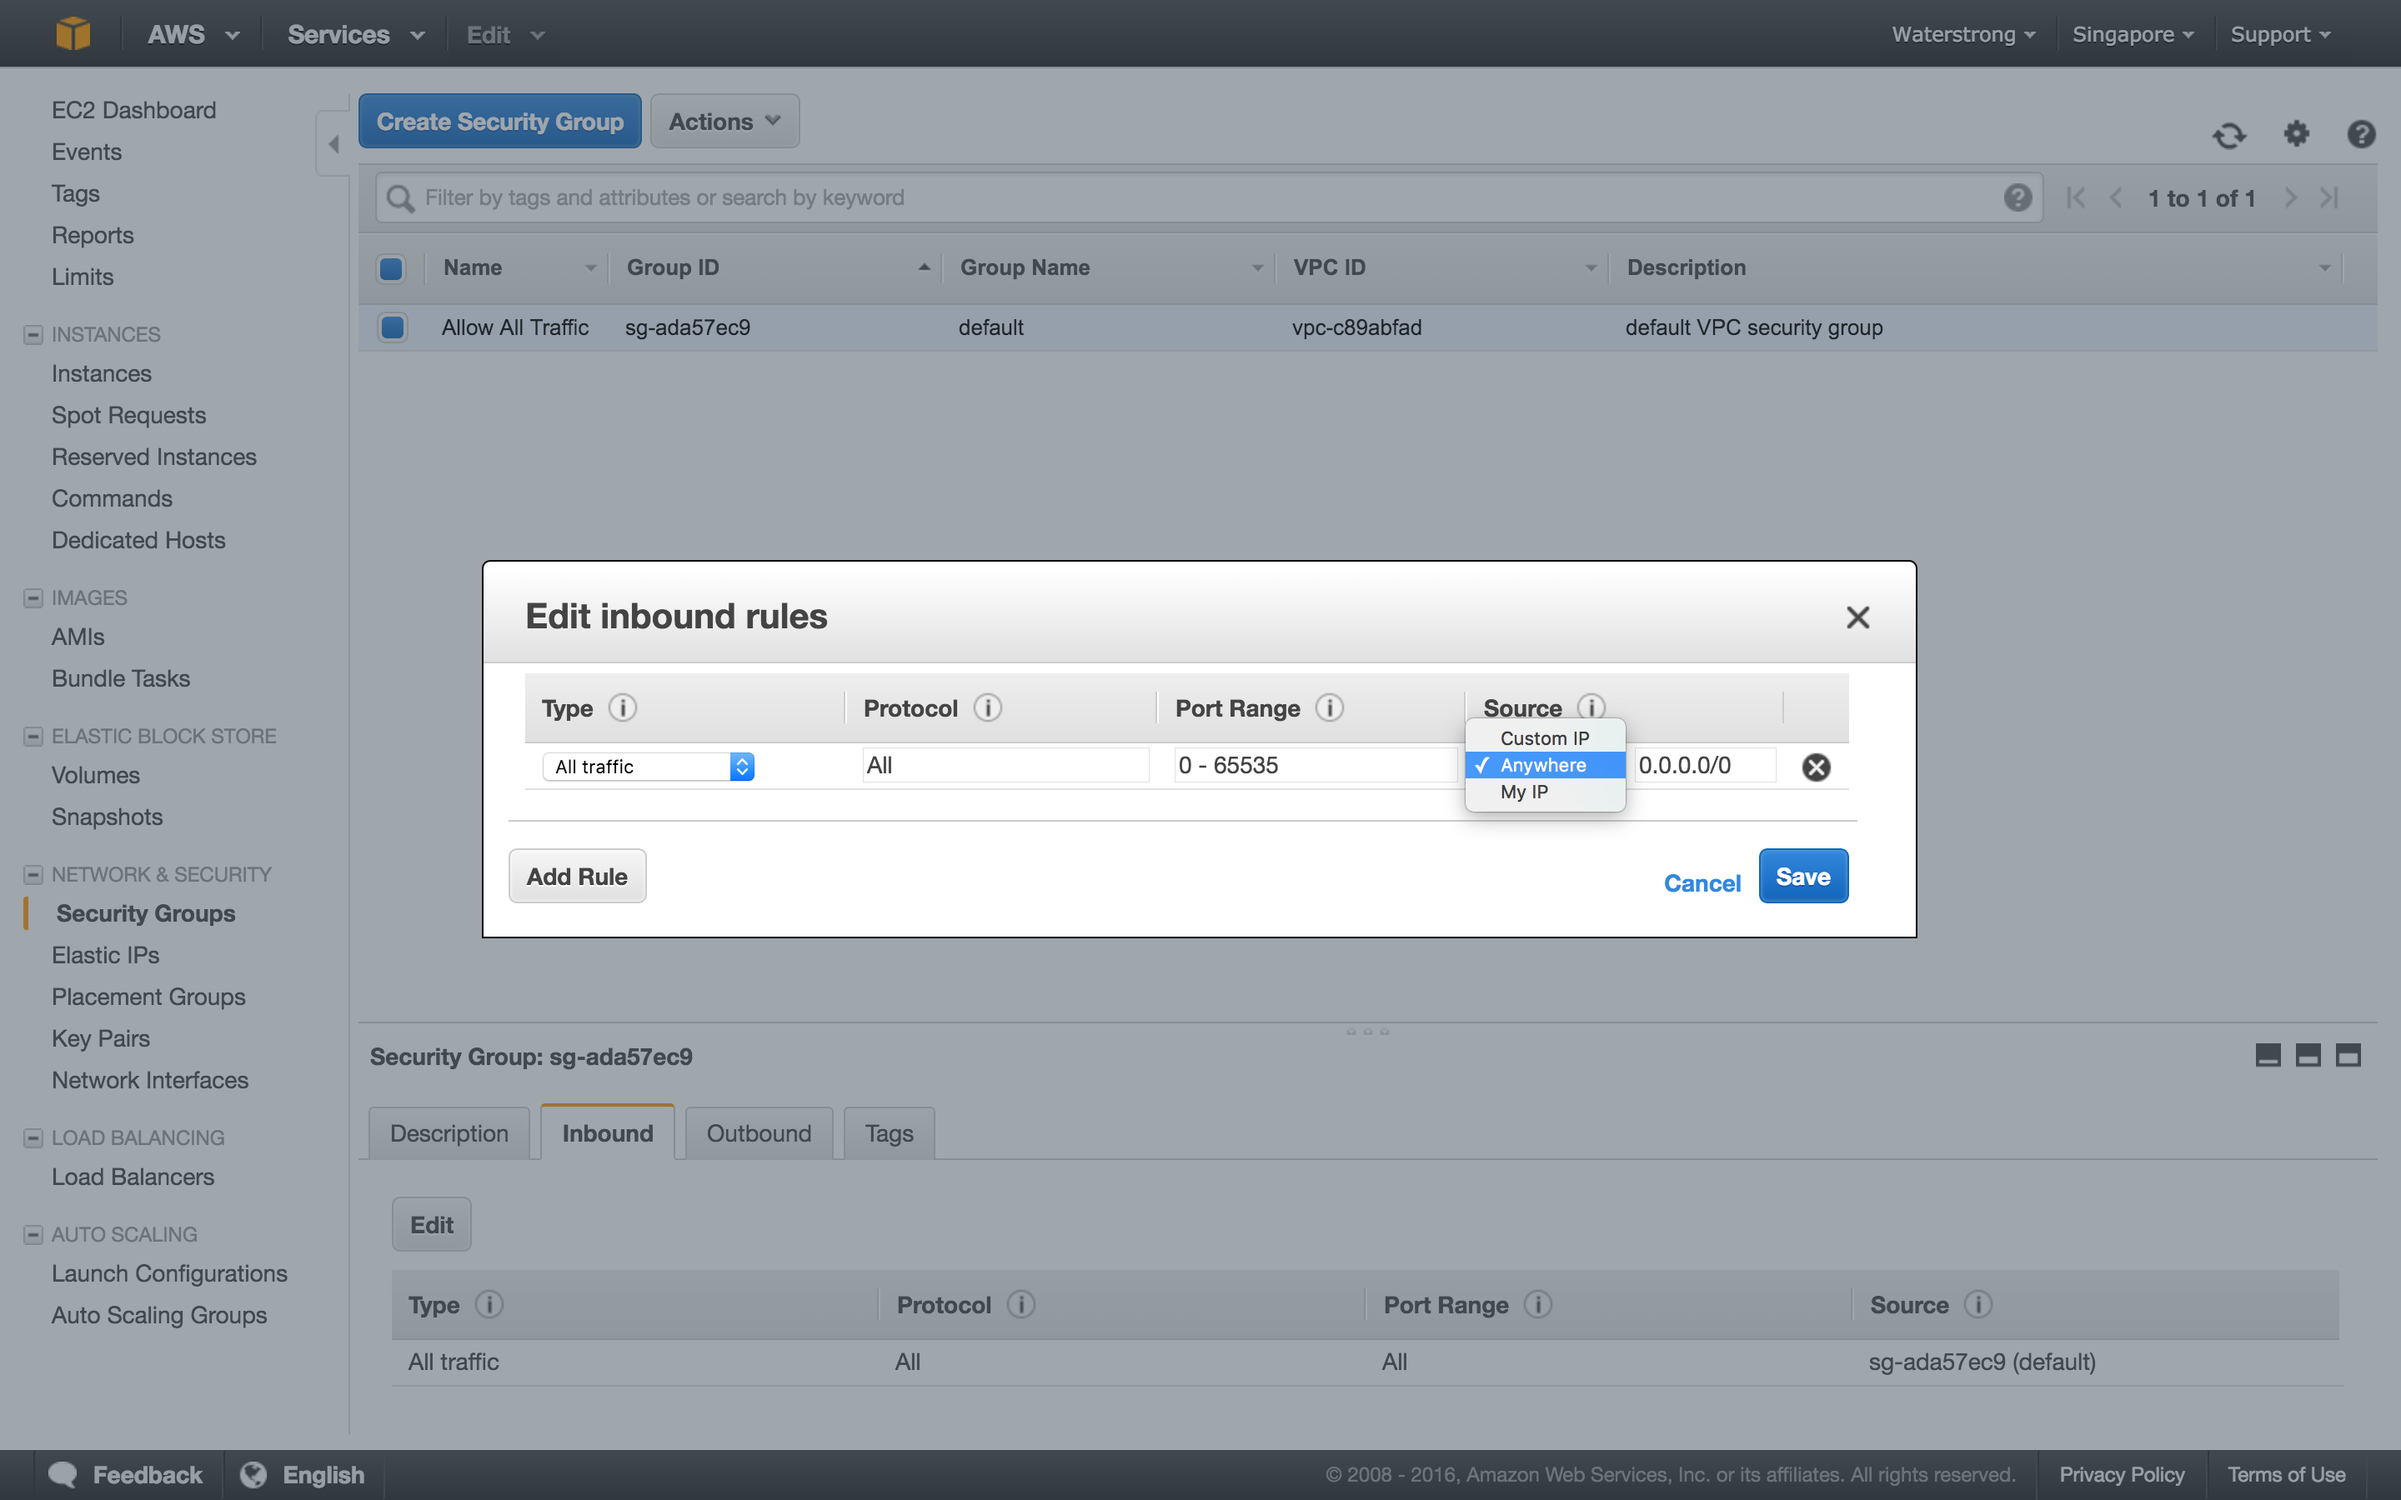
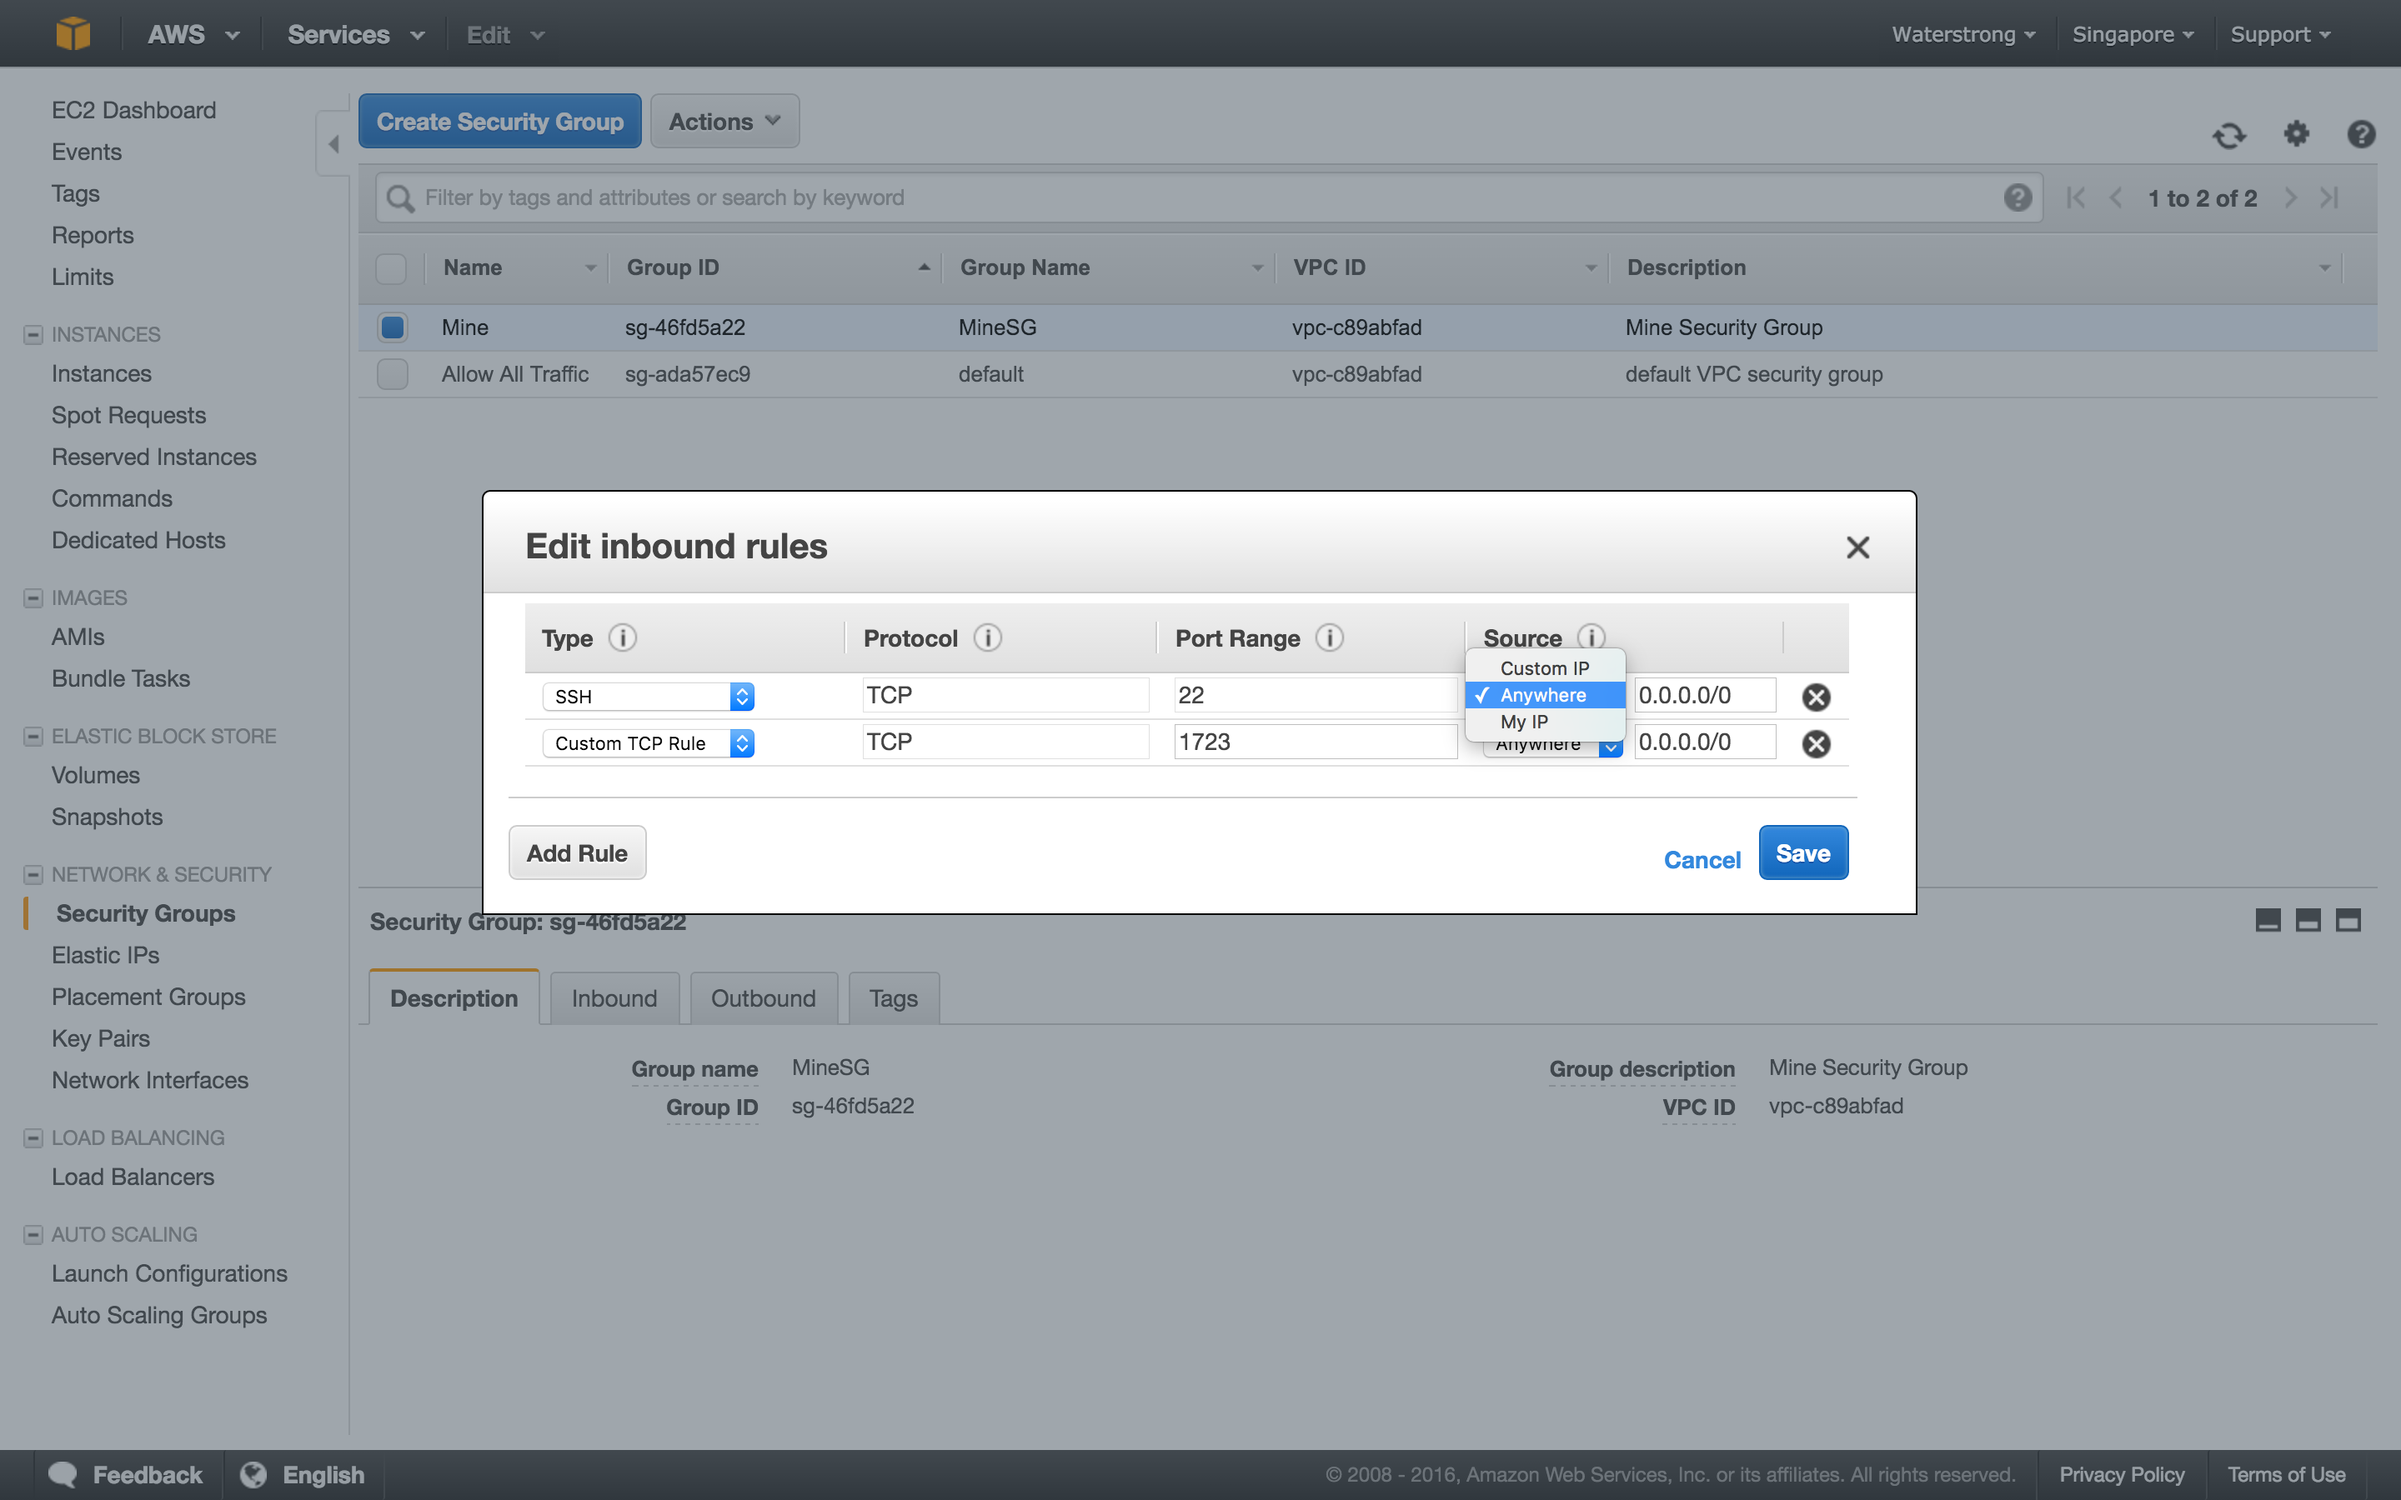
[#POST Waterstrong] - finish security group part of AWS EC2 post

diff --git a/source/_posts/2016-04-11-aws-ec2-basic.md b/source/_posts/2016-04-11-aws-ec2-basic.md
@@ -69,9 +69,17 @@ sudo umount /dev/xvdf
 
 ### Security Groups 安全组
 
-防火墙，让您可以指定协议、端口，以及能够使用安全组到达您的实例的源 IP 范围
+可以使用安全组来控制实例的访问权限，这些安全组类似于一个传入网络防火墙，可以指定允许访问实例的协议、端口和源IP范围。可以创建多个安全组，并给每个安全组指定不同的规则，然后可以给每个实例分配一个或多个安全组，通过这些规则规则确定允许哪些流量可访问实例。
 
-您可以使用安全组来控制您的实例的访问权限。这些安全组类似于一个传入网络防火墙，使您可以指定允许访问您的实例的协议、端口和源 IP 范围。您可以创建多个安全组，并给每个安全组指定不同的规则。然后您可以给每个实例分配一个或多个安全组，我们将按照这些规则确定允许哪些流量可访问实例。您可以配置一个安全组，以便只有特定的 IP 地址或特定的安全组可以访问实例。
+如下图所示选择`Network & Security -> Security Groups -> Create Security Group`创建一个新的安全组:
+![](../images/aws-ec2-basic/create_security_group.png)
+
+上图显示下拉列表中，可以根据需要选择如SSH,TCP,UDP等，也可以选择Customer Rule来自定义端口号等，还可指定来源IP范围。
+
+选择Security Groups中一个条目，通过`Actions或右键 -> Edit inbound rules或Edit outbound rules`来添加流量流入和流出限制规则:
+![](../images/aws-ec2-basic/edit_inbound_rules.png)
+
+可以根据实际需要添加规则，如果对安全性没有需求，可以不设置防火墙限制(但不推荐)，可直接选择`type`为`All traffic`，选择`source`为`Anywhere`，这样就允许所有类型和源的流量流入。
 
 
 ### Key Pairs 密钥对
@@ -87,7 +95,7 @@ sudo umount /dev/xvdf
 如下图所示选择`Network & Security -> Elastic IPs -> Allocate New Address`分配一个新的EIP:
 ![](../images/aws-ec2-basic/new_elastic_ip.png)
 
-通过`Actions或右键 -> Associate Address`输入需要关联的Instance:
+选择一个条目，通过`Actions或右键 -> Associate Address`输入需要关联的Instance:
 ![](../images/aws-ec2-basic/associate_elastic_ip.png)
 
 此时可以通过EIP访问关联到的Instance了。
@@ -124,9 +132,9 @@ sudo umount /dev/xvdf
 ![](../images/aws-ec2-basic/choose_location_area.png)
 ![](../images/aws-ec2-basic/cloud_ping.png)
 ![](../images/aws-ec2-basic/create_key_pair.png)
-![](../images/aws-ec2-basic/create_security_group.png)
+
 ![](../images/aws-ec2-basic/create_volume.png)
-![](../images/aws-ec2-basic/edit_inbound_rules.png)
+
 ![](../images/aws-ec2-basic/launch_add_storage.png)
 ![](../images/aws-ec2-basic/launch_choose_ami.png)
 ![](../images/aws-ec2-basic/launch_choose_instance_type.png)
